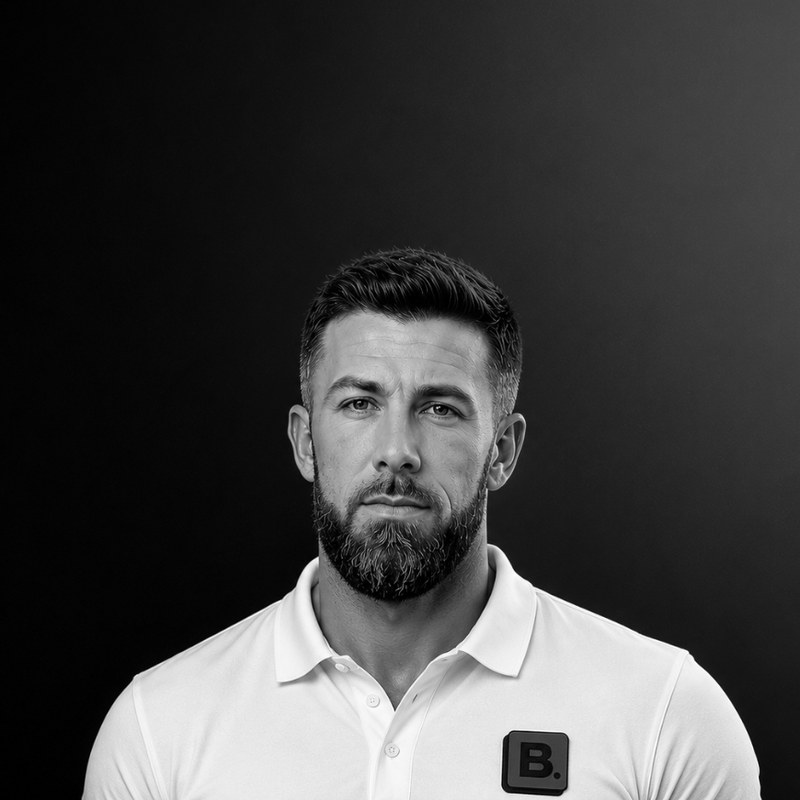
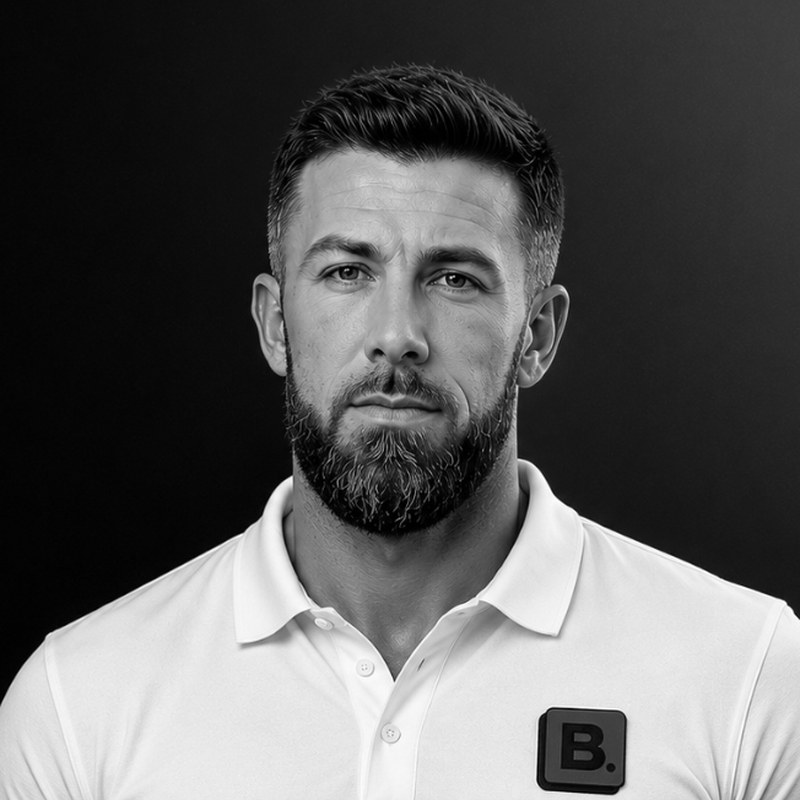
Raise Sean's photo framing; add Written-by author block to blog posts

diff --git a/blog/how-to-build-a-specialized-agent.html b/blog/how-to-build-a-specialized-agent.html
@@ -178,6 +178,37 @@ article h1 em {
 .prose pre code { background: none; padding: 0; border: 0; font-size: inherit; }
 .prose hr { border: 0; border-top: 1px solid var(--line); margin: 48px 0; }
 
+/* author block */
+.author-block {
+  margin-top: 56px;
+  padding: 28px;
+  border: 1px solid var(--line); border-radius: 20px;
+  background: var(--card);
+  display: flex; align-items: center; gap: 22px;
+}
+.author-block img {
+  width: 72px; height: 72px; border-radius: 50%;
+  object-fit: cover; flex-shrink: 0;
+  border: 1px solid var(--line-strong);
+}
+.author-block .ab-eyebrow {
+  font-family: 'JetBrains Mono', monospace;
+  font-size: 10px; letter-spacing: 0.18em; text-transform: uppercase;
+  color: var(--fg-mute); margin: 0 0 6px;
+}
+.author-block .ab-name {
+  font-size: 20px; font-weight: 500; letter-spacing: -0.02em;
+  margin: 0; line-height: 1.2;
+}
+.author-block .ab-name a {
+  color: var(--fg); text-decoration: none;
+  border-bottom: 1px solid var(--line-strong);
+}
+.author-block .ab-name a:hover { border-bottom-color: var(--fg); }
+.author-block .ab-title {
+  font-size: 14px; color: var(--fg-dim); margin: 4px 0 0;
+}
+
 /* end-of-post cta */
 .endcap {
   margin-top: 80px;
@@ -368,6 +399,15 @@ article h1 em {
       <hr>
 
       <p style="color: var(--fg-dim); font-size: 14px;">Sources: <a href="https://viktor.com" target="_blank" rel="noopener">Viktor</a>, <a href="https://www.trevipay.com/resource-center/blog/best-accounts-receivable-automation-software/" target="_blank" rel="noopener">TreviPay</a>, <a href="https://www.highradius.com/resources/Blog/top-accounts-receivable-tools/" target="_blank" rel="noopener">HighRadius</a>, <a href="https://www.bill.com/product/accounts-receivable" target="_blank" rel="noopener">BILL</a>, <a href="https://www.tesorio.com/tesorio-versus-upflow" target="_blank" rel="noopener">Tesorio</a>, <a href="https://www.g2.com/compare/tesorio-vs-upflow-upflow" target="_blank" rel="noopener">G2</a>, <a href="https://www.ycombinator.com/companies/fazeshift" target="_blank" rel="noopener">Fazeshift (Y Combinator)</a>, <a href="https://www.ledgerup.ai/resources/ar-automation-software-2026" target="_blank" rel="noopener">LedgerUp</a>, <a href="https://www.paraglide.ai/blog/how-ai-agents-automate-accounts-receivable" target="_blank" rel="noopener">Paraglide</a>, <a href="https://www.shylock.ai" target="_blank" rel="noopener">Shylock</a>.</p>
+    </div>
+
+    <div class="author-block">
+      <img src="/team/photos/sean.jpg" alt="Sean Weldon">
+      <div>
+        <p class="ab-eyebrow">Written by</p>
+        <p class="ab-name"><a href="/team/sean-weldon.html">Sean Weldon</a></p>
+        <p class="ab-title">Tech Lead</p>
+      </div>
     </div>
 
     <div class="endcap">

diff --git a/blog/welcome-to-the-absurd.html b/blog/welcome-to-the-absurd.html
@@ -177,6 +177,37 @@ article h1 em {
 .prose pre code { background: none; padding: 0; border: 0; font-size: inherit; }
 .prose hr { border: 0; border-top: 1px solid var(--line); margin: 48px 0; }
 
+/* author block */
+.author-block {
+  margin-top: 56px;
+  padding: 28px;
+  border: 1px solid var(--line); border-radius: 20px;
+  background: var(--card);
+  display: flex; align-items: center; gap: 22px;
+}
+.author-block img {
+  width: 72px; height: 72px; border-radius: 50%;
+  object-fit: cover; flex-shrink: 0;
+  border: 1px solid var(--line-strong);
+}
+.author-block .ab-eyebrow {
+  font-family: 'JetBrains Mono', monospace;
+  font-size: 10px; letter-spacing: 0.18em; text-transform: uppercase;
+  color: var(--fg-mute); margin: 0 0 6px;
+}
+.author-block .ab-name {
+  font-size: 20px; font-weight: 500; letter-spacing: -0.02em;
+  margin: 0; line-height: 1.2;
+}
+.author-block .ab-name a {
+  color: var(--fg); text-decoration: none;
+  border-bottom: 1px solid var(--line-strong);
+}
+.author-block .ab-name a:hover { border-bottom-color: var(--fg); }
+.author-block .ab-title {
+  font-size: 14px; color: var(--fg-dim); margin: 4px 0 0;
+}
+
 /* end-of-post cta */
 .endcap {
   margin-top: 80px;
@@ -303,6 +334,15 @@ article h1 em {
       <hr>
 
       <p style="color: var(--fg-dim); font-size: 16px;">Subscribe to the newsletter (coming soon), or just bookmark this page. New posts roughly every two weeks. No spam, no growth-hack tactics.</p>
+    </div>
+
+    <div class="author-block">
+      <img src="/team/photos/sardor.jpg" alt="Sardor Akhmedov">
+      <div>
+        <p class="ab-eyebrow">Written by</p>
+        <p class="ab-name"><a href="/team/sardor-akhmedov.html">Sardor Akhmedov</a></p>
+        <p class="ab-title">Founder &amp; CEO</p>
+      </div>
     </div>
 
     <div class="endcap">
